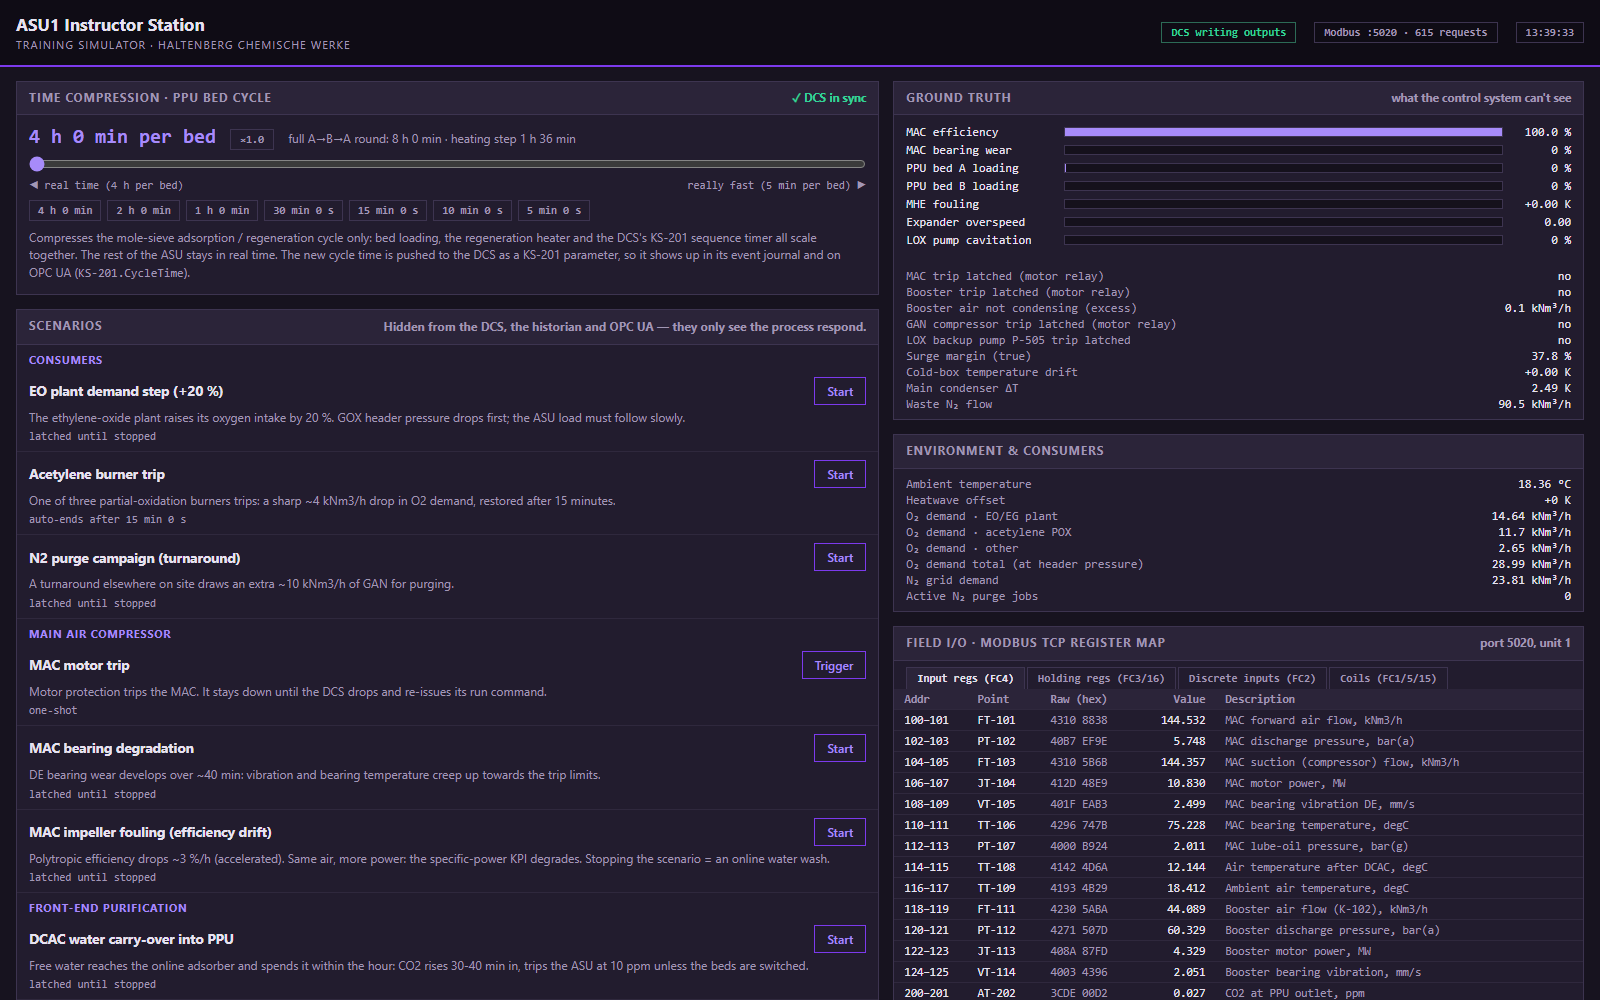
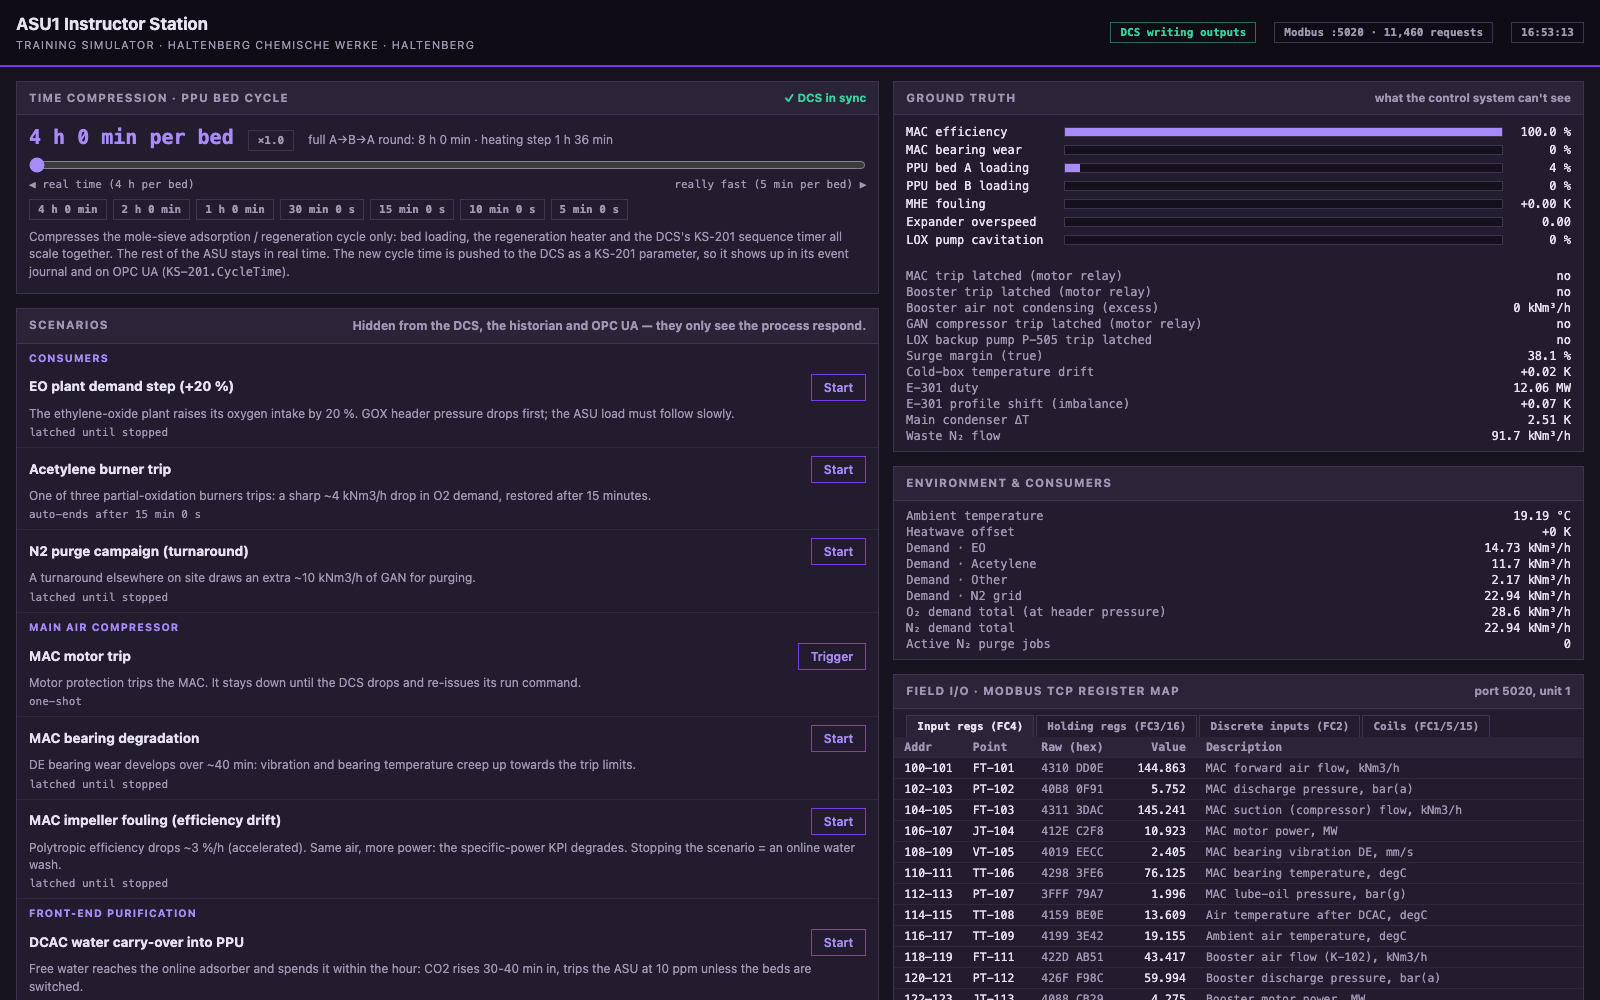
Wiki: all screenshots retaken, pages for the other sites checked
Every screenshot retaken on the three-site stack (trends with the PPU cycle at
5 min, alarms after a K-503 trip, then restored). New: the mapping explorer,
Vadhana's console, Port Arden's two LOX pumps. Wiki pages mention the other
sites where they differ (data access, instructor station, operator console,
architecture: RID-901).

Fixed on the way: the overview's consumer boxes showed the ground-truth keys
("EO", "N2 grid") instead of their labels; sites.py now has mimic_labels. The
mapping explorer breaks long browse paths only after a slash.

diff --git a/dcs/web/mapping.html b/dcs/web/mapping.html
@@ -42,7 +42,8 @@
   .bar a { color: var(--brand); white-space: nowrap; }
   .count { color: var(--muted); font-size: 13px; white-space: nowrap; }
   .tablewrap { overflow-x: auto; background: var(--card); border: 1px solid var(--line); margin-bottom: 30px; }
-  table { border-collapse: collapse; width: 100%; font-size: 12.5px; }
+  table { border-collapse: collapse; width: 100%; min-width: 1200px; font-size: 12.5px; table-layout: fixed; }
+  col.c-std { width: 20%; } col.c-unit { width: 6%; } col.c-site { width: 23%; } col.c-notes { width: 5%; }
   th, td { padding: 6px 8px; border-bottom: 1px solid #e4e7ea; vertical-align: top; text-align: left; }
   thead th { background: var(--soft); position: sticky; top: 0; font-weight: 600; white-space: nowrap; }
   thead tr.sites-h th { font-size: 13px; border-bottom: 2px solid var(--line); }
@@ -50,7 +51,7 @@
   td.std b { font-family: var(--mono); font-size: 12px; font-weight: 600; }
   td.std .d { color: var(--muted); }
   .attr { display: inline-block; font: 600 10px var(--mono); text-transform: uppercase; color: var(--brand); border: 1px solid #b9c9de; padding: 0 4px; margin-left: 4px; }
-  td.node .p { font-family: var(--mono); font-size: 11.5px; overflow-wrap: anywhere; }
+  td.node .p { font-family: var(--mono); font-size: 11.5px; }
   td.node .id { color: var(--muted); font-family: var(--mono); font-size: 11px; }
   td.node .f { font-family: var(--mono); font-size: 11.5px; margin-top: 2px; }
   td.node .u { display: inline-block; background: var(--soft); border: 1px solid #e0e3e6; padding: 0 4px; font-size: 11px; margin-right: 4px; }
@@ -58,7 +59,7 @@
   td.node .v .arrow { color: var(--muted); }
   td.node .v.bad { color: #c026d3; }
   td.gap { color: var(--gap); font-style: italic; background: repeating-linear-gradient(135deg, #fafafa, #fafafa 6px, #f3f4f5 6px, #f3f4f5 12px); }
-  td.notes { color: var(--muted); white-space: nowrap; }
+  td.notes { color: var(--muted); font-size: 11.5px; }
   tr.grp td { background: #e8edf4; font: 600 12px var(--mono); color: var(--brand); padding: 5px 8px; }
   mark { background: var(--hl); padding: 0; }
   footer { color: var(--muted); font-size: 12px; padding: 0 0 30px; }
@@ -110,6 +111,7 @@
     <a href="/api/mapping.csv" download="mapping.csv">⬇ mapping.csv</a>
   </div>
   <div class="tablewrap"><table>
+    <colgroup><col class="c-std"><col class="c-unit"><col class="c-site"><col class="c-site"><col class="c-site"><col class="c-notes"></colgroup>
     <thead id="thead"></thead>
     <tbody id="tbody"><tr><td>Loading…</td></tr></tbody>
   </table></div>
@@ -173,7 +175,8 @@ function siteCell(r, k, q) {
       live = `<div class="v ${bad ? "bad" : ""}">${bad ? v.quality.toLowerCase().replace("_", " ") : `${esc(fmtNum(v.native))} <span class="arrow">→</span> ${esc(fmtNum(v.standard))}`}</div>`;
     }
   }
-  return `<td class="sitecol node"><div class="p">${hl(path, q)}</div><div class="id">${hl(r[k + ".nodeid"], q)}</div>
+  // Break long browse paths only after a "/" (never inside a node name).
+  return `<td class="sitecol node"><div class="p">${hl(path, q).replace(/\/(?![^<]*>)/g, "/<wbr>")}</div><div class="id">${hl(r[k + ".nodeid"], q)}</div>
     <div class="f">${u ? `<span class="u">${hl(u, q)}</span>` : ""}${f === "x" ? "<span style='color:var(--muted)'>x (as is)</span>" : hl(f, q)}</div>${live}</td>`;
 }
 

diff --git a/dcs/web/operator.html b/dcs/web/operator.html
@@ -3057,8 +3057,8 @@ function pruneForSite() {
   $("#brand-unit").textContent = `${CFG.unit} · ${CFG.unit_label} · Operator Console`;
   document.title = `${CFG.unit} Operator Console · ${si.name}`;
   $("#ov-title").textContent = `${CFG.unit} process overview` + (si.key === "haltenberg" ? "" : " · dashed: not installed at this site");
-  const [o2a, o2b] = si.consumers.o2;
-  $("#cons-o2a").textContent = o2a; $("#cons-o2b").textContent = o2b; $("#cons-n2").textContent = si.consumers.n2 || "none (no GAN)";
+  const [o2a, o2b, n2] = si.mimic_labels;
+  $("#cons-o2a").textContent = o2a; $("#cons-o2b").textContent = o2b; $("#cons-n2").textContent = n2;
   pruneForSite();
   trendSel = store.get("hcw.trend.sel", ["FIC-101.PV", "AI-601.PV", "KPI-701.PV"]).filter(n => TAG[n.split(".")[0]]);
   trendMin = store.get("hcw.trend.min", 60);

diff --git a/common/sites.py b/common/sites.py
@@ -41,6 +41,8 @@ SITES = {
         equipment={"lox_pump_spare": False, "gan_product": True},
         o2_pattern="steady",
         consumers={"o2": ["EO", "Acetylene", "Other"], "n2": "N2 grid"},
+        # The consumer boxes on the console's overview drawing (two O2 boxes, one N2 box).
+        mimic_labels=["EO / EG plant", "Acetylene POX", "Site N₂ grid"],
         customers="Ethylene-oxide plant, acetylene (partial oxidation), site N₂ grid",
         profile="hcw",
         scenario_labels={},
@@ -55,6 +57,7 @@ SITES = {
         equipment={"lox_pump_spare": True, "gan_product": True},
         o2_pattern="steady",
         consumers={"o2": ["Refinery FCC", "POX unit", "Other"], "n2": "N2 pipeline"},
+        mimic_labels=["Refinery FCC", "POX unit", "N₂ pipeline"],
         customers="Refinery (FCC oxygen enrichment), partial-oxidation unit, N₂ pipeline to the chemical park",
         profile="us",
         scenario_labels={
@@ -79,6 +82,7 @@ SITES = {
         equipment={"lox_pump_spare": False, "gan_product": False},
         o2_pattern="eaf",
         consumers={"o2": ["Steel works", "Other"], "n2": None},
+        mimic_labels=["Steel works", "Other", "no GAN"],
         customers="Electric-arc-furnace steel works (cyclic oxygen demand, one heat per hour)",
         profile="in",
         scenario_labels={

diff --git a/dcs/main.py b/dcs/main.py
@@ -342,7 +342,7 @@ def config_payload(rt):
         enterprise=C.ENTERPRISE, site=C.SITE, unit=C.UNIT, unit_label=C.UNIT_LABEL,
         site_info=dict(key=s["key"], name=s["site"], company=s["company"], country=s["country_name"],
                        timezone=s["timezone"], capacity=s["capacity"], scale=s["scale"], customers=s["customers"],
-                       consumers=s["consumers"],
+                       consumers=s["consumers"], mimic_labels=s["mimic_labels"],
                        opcua_profile=native.PROFILE),
         sites=SITE_LINKS,
         blocks=[dict(id=k, label=v) for k, v in C.BLOCKS],

diff --git a/CLAUDE.md b/CLAUDE.md
@@ -101,7 +101,7 @@ docker run --rm --network <repo-folder>_default -v /path/to/script:/s --entrypoi
 # connect to opc.tcp://dcs:4840/hcw/asu1/, namespace "urn:haltenberg:hcw:asu1:dcs"
 ```
 
-**Screenshots** (headless Chrome; Playwright is not installed). `?tag=<TAG>` opens a faceplate, `?trend=A.PV,B.PV&range=<min>` preselects trend points and window (a RANGES value), `#overview|tags|ilk|alarms|trends` selects a tab and `#detail/<id>` (e.g. `#detail/C-401`) a detail display, so every view can be captured without clicking. Screenshots live in `wiki/images/` (pages link them as `images/<file>.png`); for a lively trend, compress the PPU cycle to 300 s for ~15 min first, then restore 14400:
+**Screenshots** (headless Chrome; Playwright is not installed). `?tag=<TAG>` opens a faceplate, `?trend=A.PV,B.PV&range=<min>` preselects trend points and window (a RANGES value), `#overview|tags|ilk|alarms|trends` selects a tab and `#detail/<id>` (e.g. `#detail/C-401`) a detail display, so every view can be captured without clicking. Screenshots live in `wiki/images/` (pages link them as `images/<file>.png`; the other sites' shots: `mapping-explorer.png` = `:8110/mapping`, `operator-vadhana.png` = `:8130/operator#overview`, `operator-port-arden-interlocks.png` = `:8120/operator#ilk`; `operator-alarms.png` is taken ~1 min after the instructor's K-503 trip, then reset I-503, start GANC, line-up); for a lively trend, compress the PPU cycle to 300 s for ~15 min first, then restore 14400:
 ```bash
 "/Applications/Google Chrome.app/Contents/MacOS/Google Chrome" --headless=new --disable-gpu --hide-scrollbars \
   --window-size=1600,1000 --virtual-time-budget=6000 --screenshot=out.png "http://localhost:8110/operator?tag=PIC-502#tags"
@@ -304,7 +304,7 @@ Tuning facts that are easy to break:
 - **OPC UA presentation:** `native.table()` describes the site's address space as data (objects, variables with `src` = the engine value key of `opcua_server.engine_values()`, `conv` = native = engine × f + o, `enc` = enum map). Haltenberg uses the reference `OpcUaServer` (its table only describes it); Port Arden and Vadhana are built by `NativeOpcUaServer` from the table. US: flat points `71FC1001` with PV/SP/OP/MODE(int)/ALMSTAT(int)/EUDESC/PVEULO/PVEUHI, US customary units, tanks in GAL. India: KKS-style codes, measuring point (`XQ01`) and controller (`…DU…`, XW01/XY01/XM01) separate, **numeric NodeIds** (from 1001 in table order; auto-generated children start at 900000 so they never collide), kg/cm², kelvin for cold-box temperatures (°C tags with lo ≤ −150 in blocks 3/4), ppb acetylene, tonnes in tanks, kWh/t; **SourceTimestamps +19800 s** (IST as UTC), live and HistoryRead (the request window stays real UTC).
 - **The standard (`dataops/uns_model.py`):** `hcw/<site>/air-separation/<unit>/<equipment>/<point>[/<attribute>]`, SI-ish units (Nm³/h, kW, bar(a)/bar(g) kept, degC, K for ΔT, %, %mol, ppm(mol)), enums MANUAL/AUTO/CASCADE etc. `standard_point(src, tag)` places every engine value; the generator fails on a value without a place. `inventory/uns/mapping.csv` = per standard point the native node, NodeId, unit and `to_uns` (`x * a + b` with 10 significant digits, or `map n→s`) of each site.
 - **Cross-wiring gotcha (found here):** with three plants on one compose network, recreating plant containers recycled their addresses; pymodbus reconnected to the stale address, so the Port Arden DCS controlled the Vadhana plant (two DCSs on one rack, trips). Fixed twice: the DCS makes a **new client after every I/O failure** (fresh DNS lookup, `reconnect_delay=0`), and the plant publishes its **rack identity RID-901** (`rack_id`); a DCS refuses I/O from another site's rack ("wrong I/O rack", never writes). `test_dcs_refuses_another_sites_plant`.
-- **Console at other sites:** the drawings are Haltenberg's. `pruneForSite()` drops placements, valves, levels, trend pens and status lines of absent tags/equipment; `eqCls(undefined)` draws absent equipment dashed; headers, consumer labels (`site_info.consumers`) and the KPI tiles follow the site; `loxPumps()` shows P-501A/B as one symbol. Trainer texts still describe Haltenberg.
+- **Console at other sites:** the drawings are Haltenberg's. `pruneForSite()` drops placements, valves, levels, trend pens and status lines of absent tags/equipment; `eqCls(undefined)` draws absent equipment dashed; headers, consumer boxes (`site_info.mimic_labels`, from `sites.py`; the ground-truth consumer keys are `consumers`) and the KPI tiles follow the site; `loxPumps()` shows P-501A/B as one symbol. Trainer texts still describe Haltenberg.
 - **Site mapping explorer (`dcs/web/mapping.html`, `/mapping` on every hub):** open reference, not an exercise (Willem). The DCS image copies `inventory/uns/` (`UNS_DIR`, falls back to the repo's `inventory/uns` outside the image). `GET /api/mapping` = mapping rows + sites.json + this site's live values (`native.encode()` of `engine_values()`, then `main.to_standard()` with the CSV's own formula); it sends `Access-Control-Allow-Origin: *` so a hub's page fetches the other sites' live values from their hubs (`PUBLIC_HUB_*`). `GET /api/mapping.csv` downloads the CSV. After regenerating the inventory, rebuild the DCS image or the page shows the old mapping.
 - **Tests:** `tests/test_sites.py` switches sites in-process with `offline_sim.use_site()` (env + `importlib.reload(config)`, then `native`/`opcua_server`): always in a context that switches back. Don't capture `C.TAGS`-derived values at import in code that must work per site.
 

diff --git a/wiki/Data-access.md b/wiki/Data-access.md
@@ -3,6 +3,12 @@
 Four ways to get data out of HCW, from most to least "IT-like". The tag names and node ids are
 listed on [Interface reference](Interface-reference).
 
+This page describes Haltenberg. Port Arden (`:4841`, hub `:8120`) and Vadhana (`:4842`, hub `:8130`)
+have the same HTTP API, historian and Modbus layout, but their OPC UA servers present the data in
+their own way: see [Global sites](Global-sites). The **Site mapping explorer**
+(http://localhost:8110/mapping) shows every site's nodes side by side, mapped onto the
+[Standard data model](Standard-data-model).
+
 ## OPC UA
 
 The standard door for IT systems: `opc.tcp://localhost:4840/hcw/asu1/` (anonymous, SecurityPolicy
@@ -77,6 +83,8 @@ The operator console uses it; scripts can too. JSON throughout.
 | `GET /api/config` | the engineering data: tags with units, ranges, alarm limits; equipment, interlocks; the inputs of calculated tags |
 | `GET /api/history?tags=FIC-101.PV,AI-601.PV&minutes=60&points=300` | trend data (min/max per bucket) |
 | `GET /api/events?limit=100` | the event journal |
+| `GET /api/mapping` | the [standard mapping](Standard-data-model) of all three sites (`inventory/uns/`), with this site's live values before and after conversion. Cross-origin reads allowed |
+| `GET /api/mapping.csv` | the same mapping as a CSV download |
 | `GET /api/datapath?tag=FIC-101` | one tag at every layer: its Modbus registers (the raw words of the last scan), the DCS tag, its historian points and OPC UA nodes. Used by the [IT/OT trainer](Trainers) |
 | `POST /api/loops/<tag>` `{"mode": "AUTO", "sp": 145}` | change a loop (also `op`, `kc`, `ti`, `sp_rate`, `ratio`…) |
 | `POST /api/equipment/<key>/start` or `/stop` | start / stop equipment |

diff --git a/wiki/Instructor-station.md b/wiki/Instructor-station.md
@@ -32,11 +32,26 @@ effects, just like in a real plant. That is what makes the data worth analysing.
 
 After a trip, see [Restart after a trip](Process-behaviour#restart-after-a-trip).
 
+### At the other sites
+
+Port Arden (http://localhost:8121) and Vadhana (http://localhost:8131) have their own instructor
+station, with the scenarios their equipment allows and their own customer names
+([Global sites](Global-sites)):
+
+- **Port Arden:** the consumer scenarios are a refinery O₂ demand step, a POX burner trip and a
+  customer purge campaign on the N₂ pipeline. One extra scenario: **LOX pump motor trip (duty
+  pump)**. The DCS starts the standby pump; GOX dips for a few seconds, no trip, alarm
+  `LOXPB.AUTOSTART` (or `LOXP.AUTOSTART`). Swap back by starting the tripped pump and stopping the
+  other.
+- **Vadhana:** no N₂ purge campaign and no GAN compressor trip (no GAN product). The demand step
+  and the burner trip become an extra furnace load and an oxygen lance trip at the steel works.
+
 ## Time compression
 
 Most of the plant runs in real time on purpose: a load change takes ~40 min, purity recovery after
 a restart ~1 h. Only the **PPU bed cycle** can be sped up, with the slider, from *real time*
-(4 h per bed) to *really fast* (5 min per bed). Ticks are provided for 2 h, 1 h, 30, 15 and 10 min.
+(4 h per bed at Haltenberg, 3 h at Port Arden, 2 h at Vadhana) to *really fast* (5 min per bed).
+Ticks are provided for the shorter cycles down to 5 min.
 
 - **What scales:** bed loading, the regeneration heater and the DCS's KS-201 sequence timer all
   scale together. The rest of the ASU stays in real time.

diff --git a/wiki/Global-sites.md b/wiki/Global-sites.md
@@ -12,6 +12,8 @@ standard, and the live value before and after conversion. The same data is in
 [`inventory/uns/mapping.csv`](https://github.com/itotinsider/haltenberg-chemische-werke-uns/blob/main/inventory/uns/mapping.csv)
 (a download button on the page) and `inventory/uns/sites.json`.
 
+![Site mapping explorer: the three sites side by side, with live values before and after conversion](images/mapping-explorer.png)
+
 All three run the same simulator engine (plant model + DCS). What differs per site is set in
 [`common/sites.py`](https://github.com/itotinsider/haltenberg-chemische-werke-uns/blob/main/common/sites.py):
 its size, climate, customers, some equipment, and above all **how its DCS presents the data over
@@ -62,6 +64,12 @@ OPC UA**.
     for a whole heat, purity would sink to its L alarm.
 - **Climate:** hotter sites have a bigger chiller after the DCAC (TI-108 is ~12 °C everywhere), a
   shorter bed cycle, more MAC power per Nm³ of air, and an ambient alarm set for their weather.
+
+![Vadhana's console: the reference drawing, with the nitrogen product equipment drawn dashed (not installed)](images/operator-vadhana.png)
+
+Port Arden's two LOX pumps on the interlock display (I-500 trips both; P-501B is the standby):
+
+![Port Arden: Interlocks & sequences with P-501A and P-501B](images/operator-port-arden-interlocks.png)
 
 ## How each site presents its data
 

diff --git a/wiki/Operator-console.md b/wiki/Operator-console.md
@@ -5,6 +5,11 @@ The DCS operator console is at http://localhost:8110/operator. It follows **ISA-
 2 amber, 3 violet, bad quality magenta). Process media get muted colours so you can tell lines
 apart: oxygen blue, nitrogen green.
 
+Port Arden (http://localhost:8120/operator) and Vadhana (http://localhost:8130/operator) run the
+same console. Its header names the site, the consumer boxes and KPI tiles follow it, and the
+drawings are Haltenberg's: equipment a site doesn't have is drawn dashed, and its tags are left
+out. See [Global sites](Global-sites).
+
 ## Process overview
 
 The whole unit on one display (ISA-101 level 2). Click any value to open its faceplate, or click

diff --git a/wiki/Architecture.md b/wiki/Architecture.md
@@ -39,6 +39,9 @@ images, with `HCW_SITE` selecting the site. Each pair has its own network names 
 - If the DCS goes away, the plant holds the last outputs, the way an I/O rack does. It starts at
   the design steady state, before any DCS connects.
 - A plant heartbeat (HB-900) lets the DCS detect a frozen rack: every value then turns Bad quality.
+- The rack also reports which site it is (RID-901). A DCS refuses I/O from another site's plant:
+  with three plants on one network, a reconnect to a recycled container address once made two
+  DCSs control one plant.
 
 ## Modbus: the raw layer
 

diff --git a/wiki/Standard-data-model.md b/wiki/Standard-data-model.md
@@ -15,6 +15,8 @@ The mapping is **open reference material**, not an exercise: use it to build the
 Browse it with live values on any hub's **Site mapping explorer**
 (http://localhost:8110/mapping), or download it there.
 
+![Site mapping explorer](images/mapping-explorer.png)
+
 ## Paths
 
 ```
